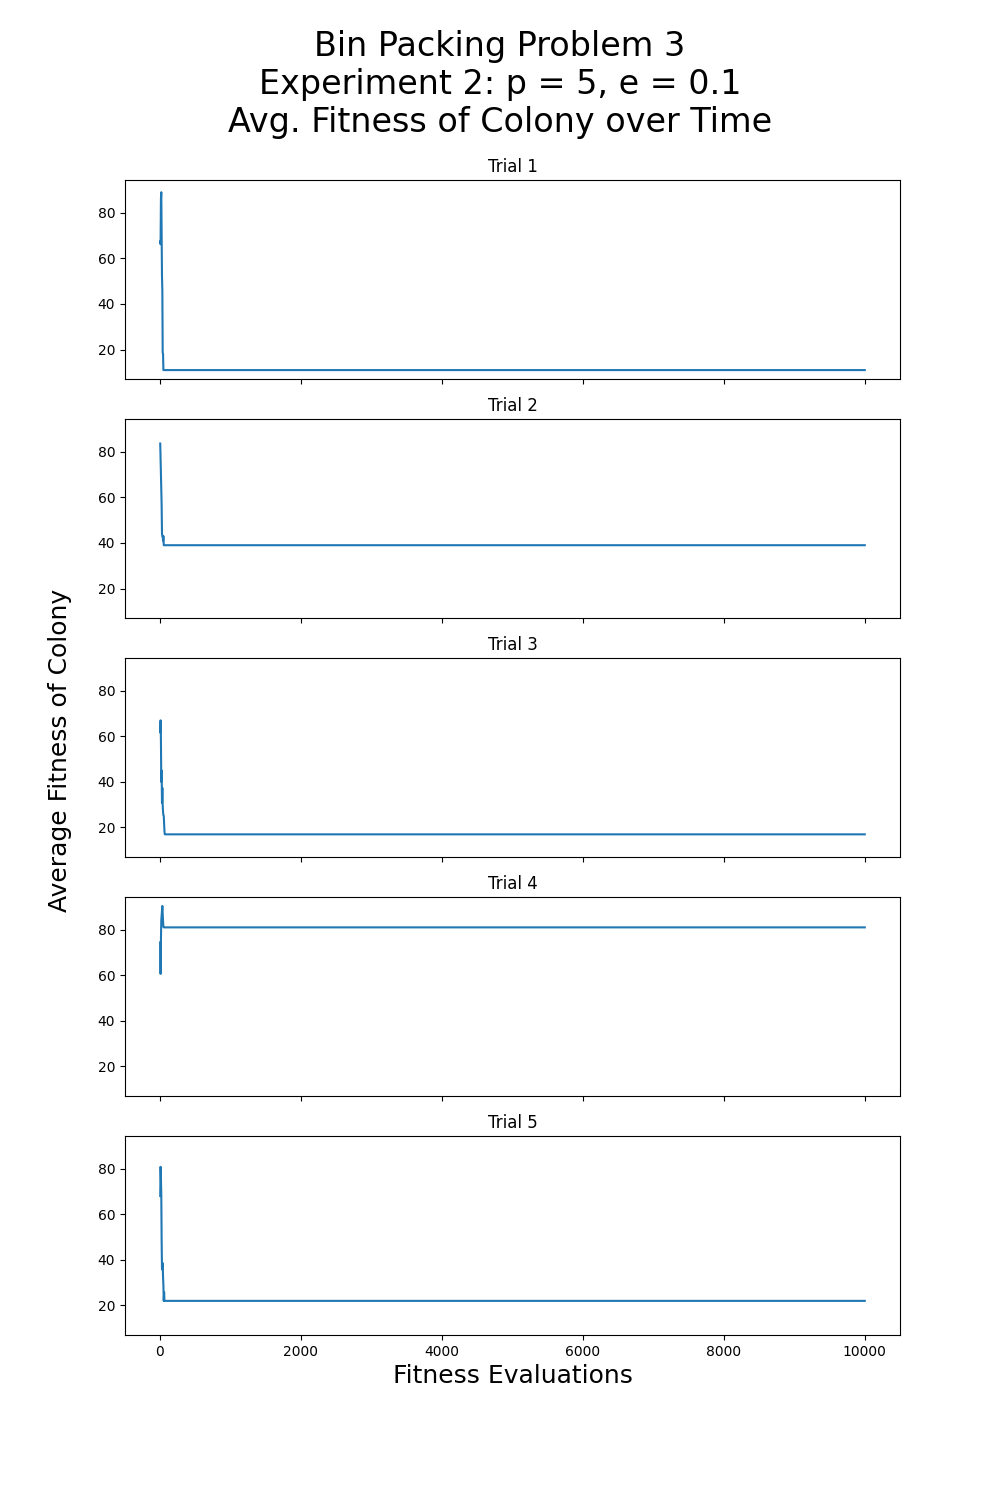
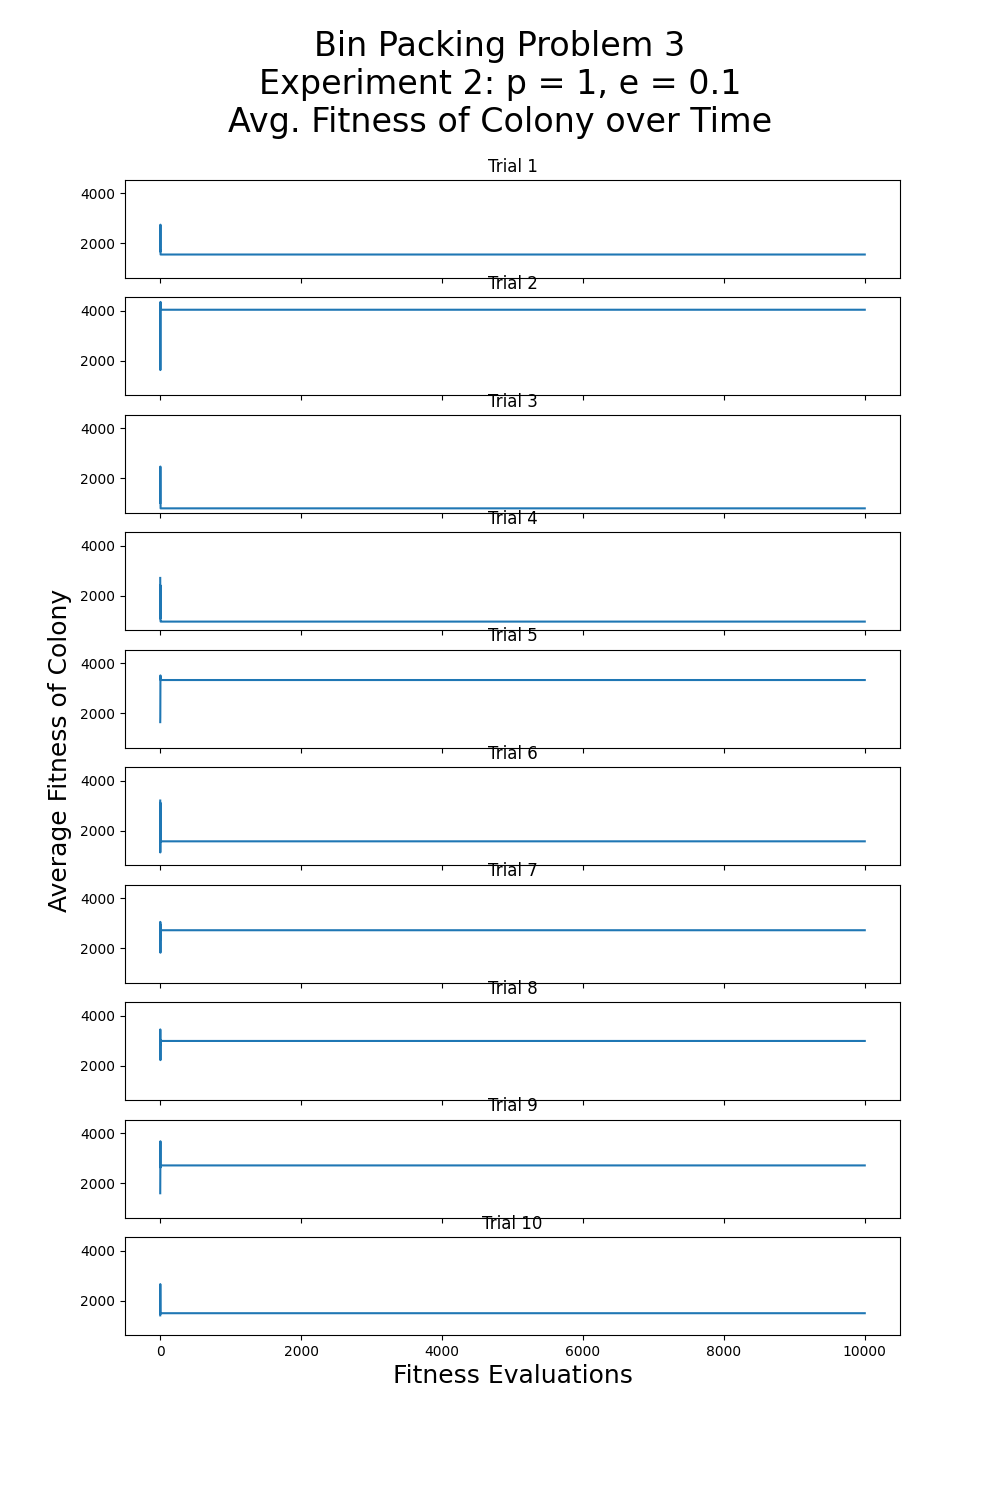
pc

diff --git a/result.py b/result.py
@@ -77,18 +77,18 @@ class Experiment:
         # Write values to a csv file.
         with open(f'Results/bpp_{self.bpp_id}/experiment_{self.experiment_num}/results.csv', 'w', newline='') as f:
             writer = csv.writer(f, delimiter=',')
-            writer.writerow(['trial_fitness', trial_fitnesses[0],
-                                              trial_fitnesses[1],
-                                              trial_fitnesses[2],
-                                              trial_fitnesses[3],
-                                              trial_fitnesses[4]])
+            #writer.writerow(['trial_fitness', trial_fitnesses[0],
+                                              #trial_fitnesses[1],
+                                              #trial_fitnesses[2],
+                                              #trial_fitnesses[3],
+                                              #trial_fitnesses[4]])
             writer.writerow(['best_fitness', best_fitness])
             writer.writerow(['avg_fitness', avg_fitness])
             writer.writerow(['stdev_fitness', stdev_fitness])
 
         # Extra experiment data collection.
         if self.bpp_id == 3:
-            with open('Results/bpp_3/results.csv','a') as f:
+            with open('Results/bpp_3/results.csv','a', newline='') as f:
                 writer = csv.writer(f, delimiter=',')
                 writer.writerow([round(p, 2), round(e, 2), best_fitness, round(avg_fitness, 1), round(stdev_fitness, 1)])
 

diff --git a/main.py b/main.py
@@ -23,8 +23,8 @@ bpp_3 = Bpp(bpp_id     = 3,
             num_trials = 10,
             items      = list(range(1, 251)),
             b          = 5,
-            p          = list(range(5, 115, 5)),
-            e          = list(arange(0.05, 1, 0.05)),
+            p          = [1, 2, 3, 4] + list(range(5, 115, 5)),
+            e          = list(arange(0.05, 1.05, 0.05)),
             fe         = 10000)
 
 bpps = [bpp_1, bpp_2]
